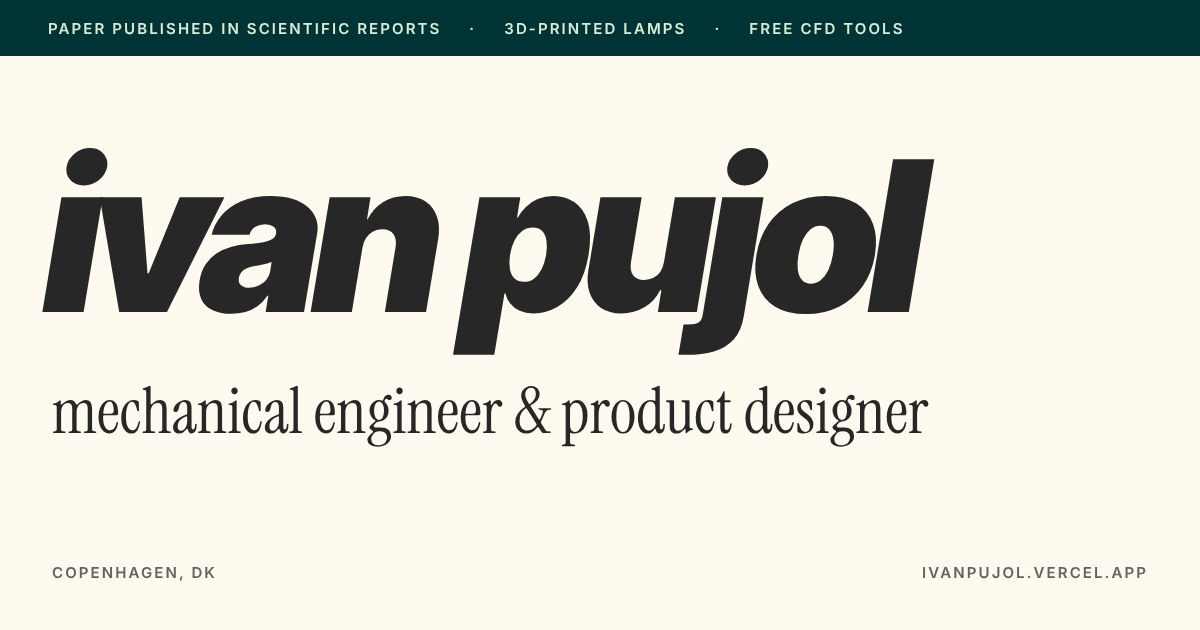
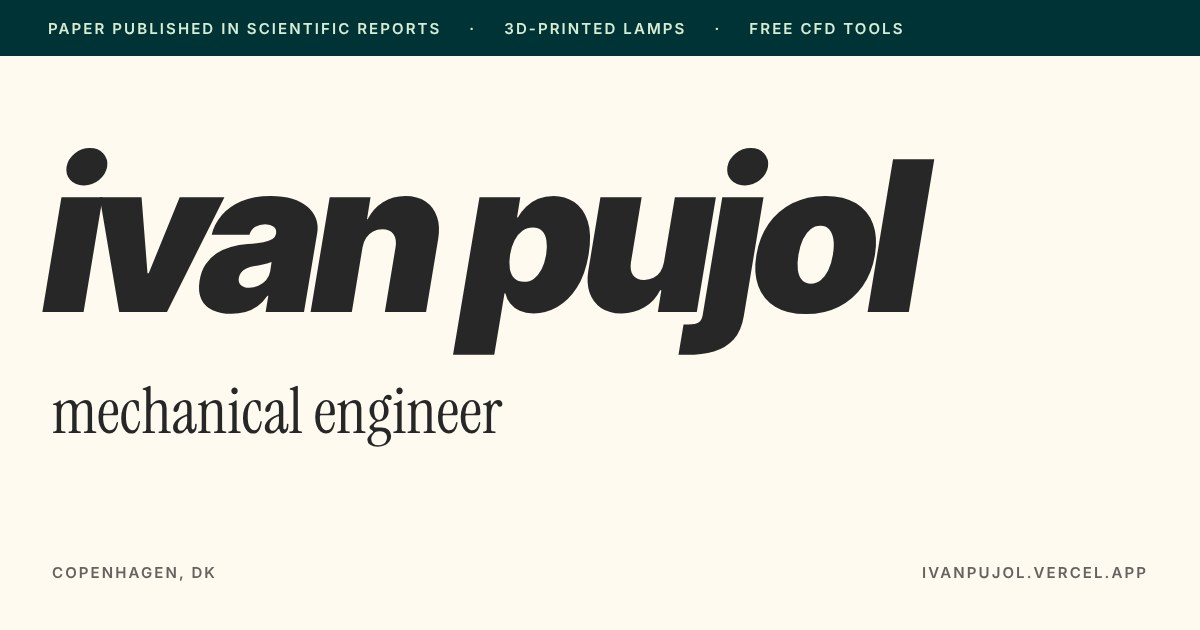
Simplify title and intro, drop New badges on lamps
- Hero, page title, meta and OG image say "mechanical engineer" only
- New intro line about the Alfa Laval role, with no thesis or lamp mention
- Remove the New badges from both lamp projects and "New" from the ticker

Claude-Session: https://claude.ai/code/session_012bE4JvZN2skB1UDQRuhaks

Changed region(s): [[0.4317, 0.6032, 0.7708, 0.7238]]

diff --git a/index.html b/index.html
@@ -4,15 +4,15 @@
     <meta charset="UTF-8" />
     <meta name="viewport" content="width=device-width, initial-scale=1.0" />
     <link rel="icon" type="image/png" href="/favicon.png" />
-    <title>Ivan Pujol | Mechanical engineer &amp; product designer</title>
+    <title>Ivan Pujol | Mechanical engineer</title>
     <meta
       name="description"
-      content="Ivan Pujol, mechanical engineer and product designer in Copenhagen. 3D-printed lamps, published CFD research on speedway aerodynamics, mechanical design and free CFD tools."
+      content="Ivan Pujol, mechanical engineer in Copenhagen. 3D-printed lamps, published CFD research on speedway aerodynamics, mechanical design and free CFD tools."
     />
     <meta name="author" content="Ivan Pujol" />
     <meta name="theme-color" content="#003335" />
 
-    <meta property="og:title" content="Ivan Pujol | Mechanical engineer &amp; product designer" />
+    <meta property="og:title" content="Ivan Pujol | Mechanical engineer" />
     <meta
       property="og:description"
       content="3D-printed lamps, published CFD research and mechanical design, by Ivan Pujol in Copenhagen."

diff --git a/src/data/projectsData.ts b/src/data/projectsData.ts
@@ -119,7 +119,6 @@ export const projectsData: Project[] = [
     title: "Núvol Lamp",
     subtitle: "A ribbed double-bubble table lamp with a quarter-turn bayonet",
     category: "Product design",
-    badge: { label: "New", tone: "flame" },
     tools: ["Parametric CAD", "Orca Slicer", "Creality Ender-3 S1 Pro", "PLA"],
     description:
       "A Ø180 mm double-bubble lamp with 116 ribs and a 0.9 mm wall. The shade twists onto the base with a quarter-turn bayonet, and the bulb was chosen by calculation so both bubbles glow in the right proportion.",
@@ -229,7 +228,6 @@ export const projectsData: Project[] = [
     title: "Gerro Lamp",
     subtitle: "A ribbed arch vase turned into a lamp with a printed glowing globe",
     category: "Product design",
-    badge: { label: "New", tone: "flame" },
     tools: ["Parametric CAD", "Mesh editing", "Orca Slicer", "Creality Ender-3 S1 Pro", "PLA"],
     description:
       "A matte green ribbed arch with a fully closed Ø100 mm printed globe that hides an E14 bulb. The globe locks on with a 60° bayonet, and the whole assembly was simulated before the first print.",

diff --git a/src/components/IntroSection.tsx b/src/components/IntroSection.tsx
@@ -10,9 +10,8 @@ const IntroSection = () => (
         transition={{ duration: 0.7 }}
         className="max-w-[24ch] font-serif text-[40px] leading-[1.02] tracking-[-0.01em] text-ink sm:text-[56px] md:text-[76px] lg:text-[88px]"
       >
-        My master&apos;s thesis put a <span className="whitespace-nowrap">3D-printed</span> speedway bike in a wind
-        tunnel. Now the printer on my desk makes{" "}
-        <em className="italic text-teal">lamps</em>.
+        I&apos;m a mechanical engineer in Copenhagen, designing equipment for{" "}
+        <em className="italic text-teal">offshore platforms</em> at Alfa Laval.
       </motion.p>
     </div>
   </section>

diff --git a/src/components/HeroSection.tsx b/src/components/HeroSection.tsx
@@ -56,7 +56,7 @@ const HeroSection = () => {
           transition={{ duration: 0.8, delay: 0.15 }}
           className="mt-5 font-serif text-[7vw] md:mt-7 leading-none sm:text-[5vw] lg:text-[3.4vw] 2xl:text-[52px]"
         >
-          mechanical engineer &amp; product designer
+          mechanical engineer
         </motion.p>
         <motion.div
           initial={{ opacity: 0 }}

diff --git a/src/components/Ticker.tsx b/src/components/Ticker.tsx
@@ -3,7 +3,7 @@
 
 const messages = [
   "Paper published in Scientific Reports",
-  "New: two 3D-printed lamps",
+  "3D-printed lamps",
   "Mechanical engineer in Copenhagen",
   "Free CFD calculators online",
   "Open to new roles",
